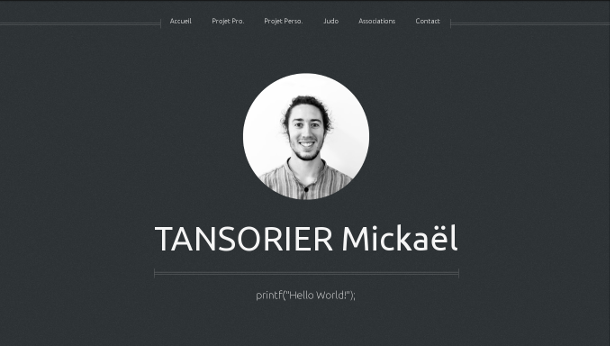
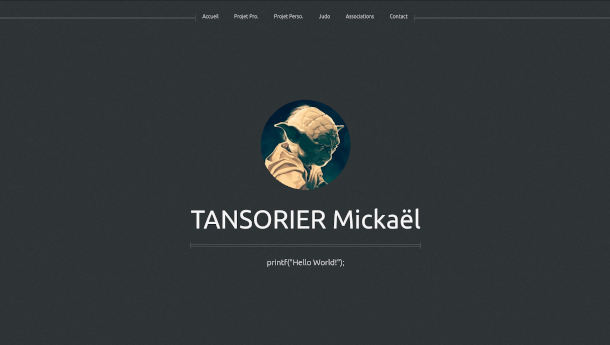
site web: Update photo and strike deprecated website

diff --git a/projet_perso-sites_web.html b/projet_perso-sites_web.html
@@ -111,7 +111,7 @@
 										<p>
 											<ul class="default">
 												<li>Site personnel Tansorier <span style="float: right;">2017-20XX</span></li>
-												<li>Antonnière Judo Club 72 (AJC72) <span style="float: right;">2009-20XX</span></li>
+												<li>Antonnière Judo Club 72 (AJC72) <span style="float: right;">2009-2019</span></li>
 												<li>Service Moules et Mécanique de Précision (SMMP) <span style="float: right;">2015</span></li>
 												<li>Forum du Comité Départemental de Judo de la Sarthe (CDJS) <span style="float: right;">2012</span></li>
 											</ul>
@@ -138,7 +138,7 @@
 									<section id="AJC72">
 										<header>
 											<h3><u>Antonnière Judo Club 72</u></h3>
-											<p><a href="http://siteajc72.free.fr">siteajc72.free.fr</a></p>
+											<p><s><a href="http://siteajc72.free.fr">siteajc72.free.fr</a></s></p>
 										</header>
 										<p>
 											Le site de l’AJC72 est le site internet du club de judo de La Milesse.
@@ -170,7 +170,7 @@
 									<section id="CDJS">
 										<header>
 											<h3><u>Forum pour le Comité Départemental de Judo de la Sarthe</u></h3>
-											<p><a href="http://forum.sarthe.judo.free.fr/">forum.sarthe.judo.free.fr</a></p>
+											<p><s><a href="http://forum.sarthe.judo.free.fr/">forum.sarthe.judo.free.fr</a></s></p>
 										</header>
 										<p>
 											Le forum est une plateforme à destination de tous les licenciés de judo du département de la Sarthe.
